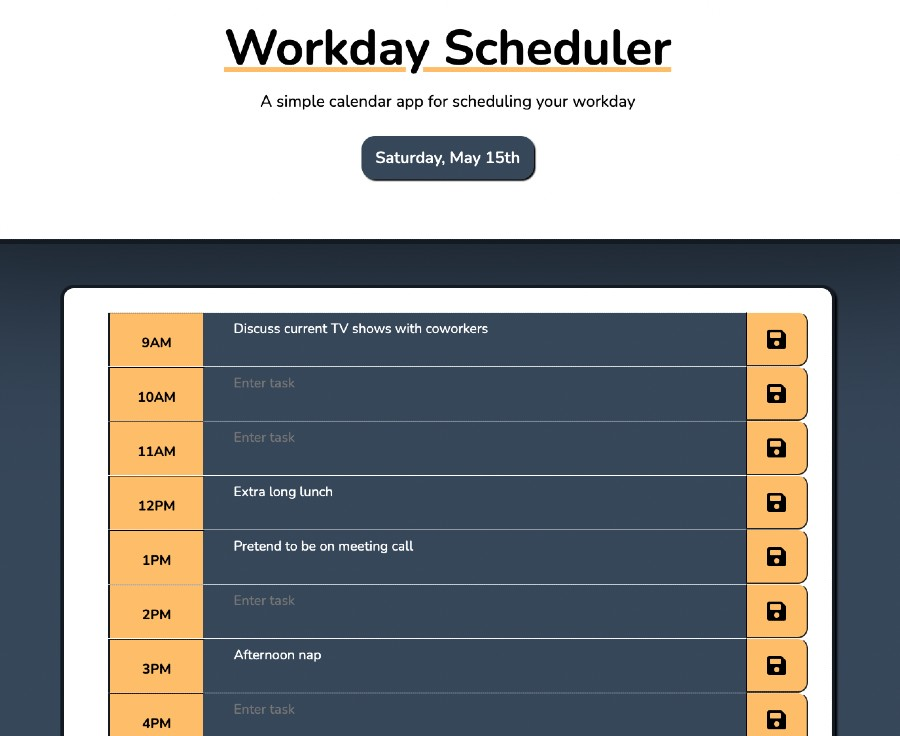
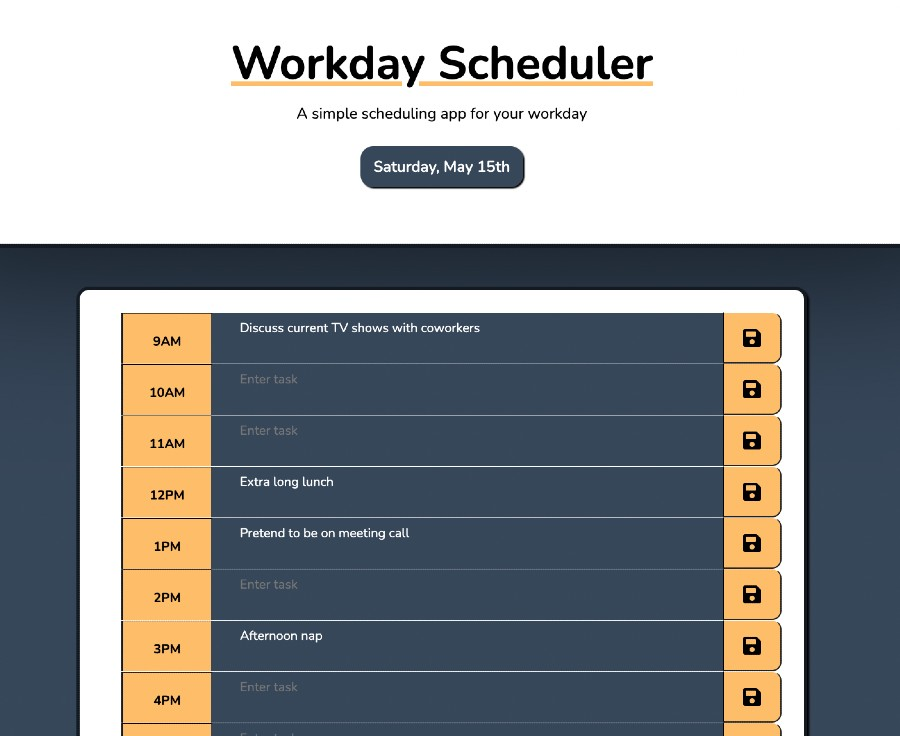
new screenshot

diff --git a/index.html b/index.html
@@ -26,7 +26,7 @@
   <body>
     <header class="jumbotron">
       <h1 class="display-3">Workday Scheduler</h1>
-      <p class="lead">A simple calendar app for scheduling your workday</p>
+      <p class="lead">A simple scheduling app for your workday</p>
       <!-- Luxon current day -->
       <p id="currentDay" class="lead">
       </p>
